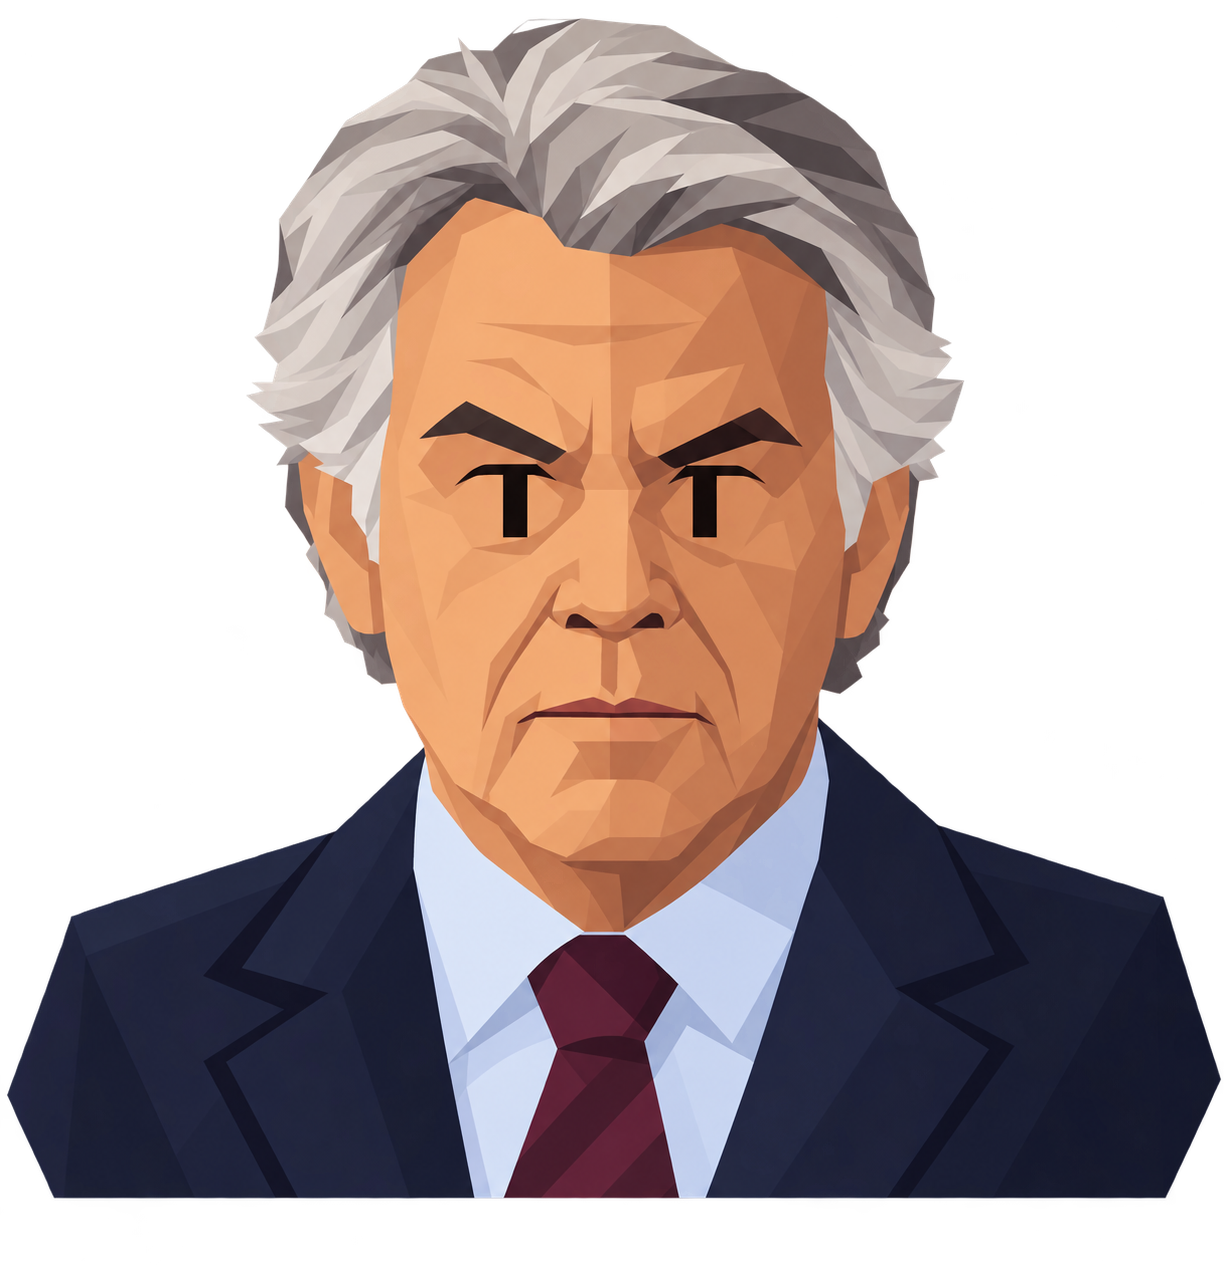
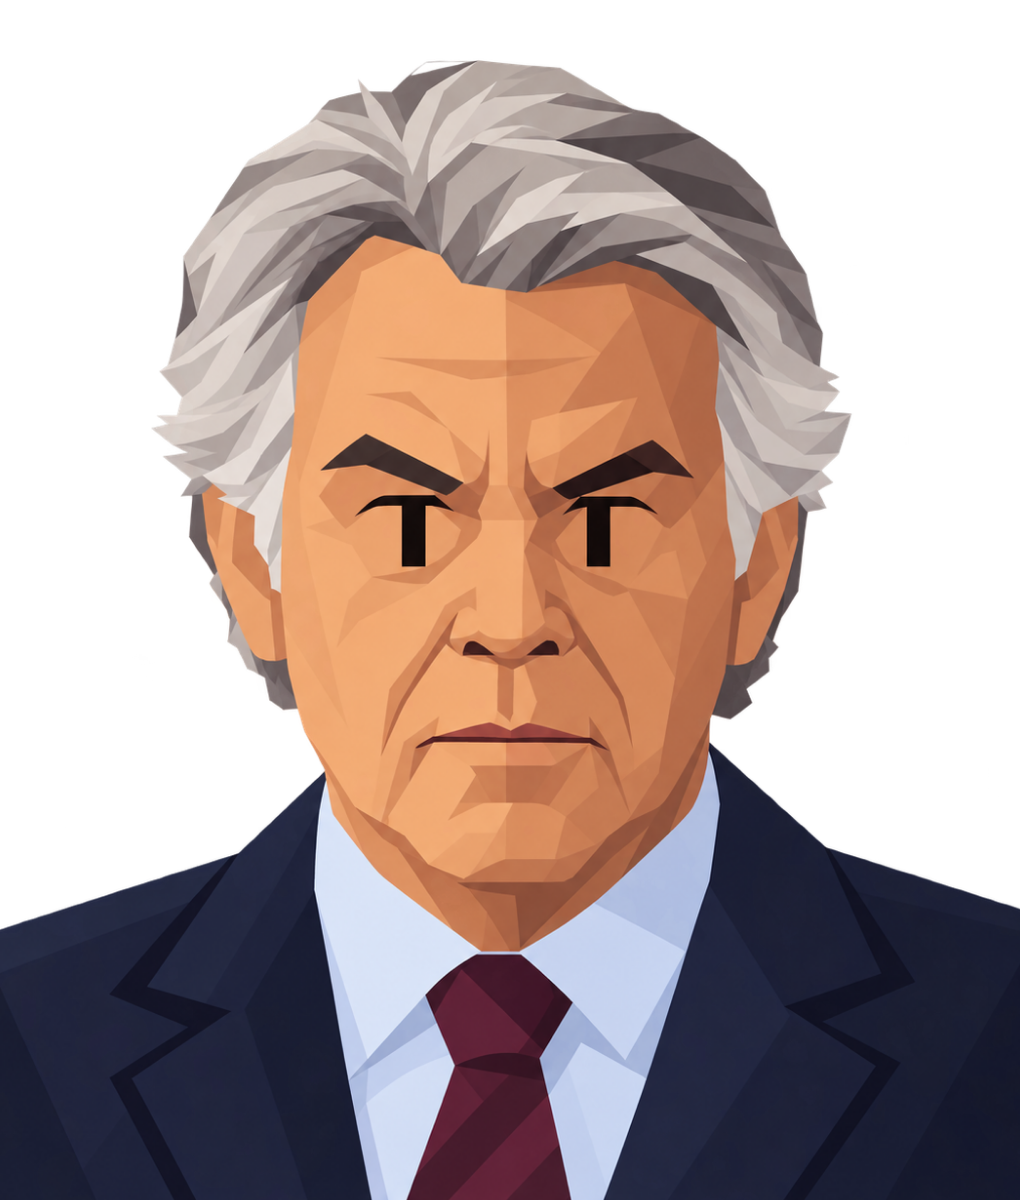
Arte nuevo de El Gurú y La Primera Dama, y re-encuadre de los cuatro sueltos
Los retratos de guru y primeradama pasan de SVG provisional a PNG: actualizo
las referencias de las cartas (apuntaban al .svg, que ya no existe, así que
salían sin cara).

Además, cuatro PNG estaban fuera del lienzo común 1020x1200 y se veían con
distinto encuadre que el resto: los dos nuevos más expresidentecompetente y
ultraderecha, que también habían cambiado. Pasados por
scripts/normalize-portraits.mjs. Ahora los 16 comparten plano.

El script admite ahora nombres sueltos (antes reescribía los 16 siempre) y
resuelve playwright del proyecto o de PLAYWRIGHT_PATH, en vez de asumir una
ruta de la caché de npx que solo existía en mi máquina.

diff --git a/src/data/cards.content.ts b/src/data/cards.content.ts
@@ -2592,7 +2592,7 @@ export const contentCards: Card[] = [
     pleases: 'left',
     phase: 1,
     character: 'La Primera Dama',
-    characterImage: 'primeradama.svg',
+    characterImage: 'primeradama.png',
     text: '"He montado un curso de liderazgo en una universidad pública. Y una cátedra. Y creo que también un máster, pero ese no me acuerdo." Le mira esperando entusiasmo.',
     left: { text: '"Sí, cariño"', effects: { medios: -1, caja: -1 }, moralidad: -1 },
     right: { text: 'Preguntar quién firma y quién paga eso', effects: { medios: 1 }, moralidad: 1 },
@@ -2602,7 +2602,7 @@ export const contentCards: Card[] = [
     pleases: 'left',
     phase: 2,
     character: 'La Primera Dama',
-    characterImage: 'primeradama.svg',
+    characterImage: 'primeradama.png',
     text: '"Ahora soy empresaria. Tengo reuniones en el Palacio, sí, pero son cosa mía, no tuya." Le enseña unas tarjetas de visita recién impresas, con el escudo casi igual que el oficial.',
     left: { text: '"Sí, cariño"', effects: { caja: 1, medios: -1 }, moralidad: -2, nextCardId: 'react_dama_juez' },
     right: { text: 'Pedirle que las reuniones sean fuera de casa', effects: { medios: 1, gobierno: -1 }, moralidad: 1 },
@@ -2612,7 +2612,7 @@ export const contentCards: Card[] = [
     pleases: 'left',
     phase: 2,
     character: 'La Primera Dama',
-    characterImage: 'primeradama.svg',
+    characterImage: 'primeradama.png',
     text: '"He escrito un libro. Sale en primavera. Los ministerios van a comprar unos cuantos ejemplares, ¿verdad que sí? Para las bibliotecas. Muchos." Ya tiene hecha la foto de la portada.',
     left: { text: '"Sí, cariño"', effects: { caja: 1, medios: -1 }, moralidad: -1 },
     right: { text: 'Que lo compre quien quiera, como todo el mundo', effects: { medios: 1 }, moralidad: 1 },
@@ -2622,7 +2622,7 @@ export const contentCards: Card[] = [
     pleases: 'left',
     phase: 3,
     character: 'La Primera Dama',
-    characterImage: 'primeradama.svg',
+    characterImage: 'primeradama.png',
     text: '"Voy a coger tu avión para un acto. Benéfico. Bueno, mío. Bueno, de una fundación que he creado esta mañana. Ya te lo explico en la cena." Ya está en la escalerilla.',
     left: { text: '"Sí, cariño"', effects: { calle: -1, medios: -1, caja: -1 }, moralidad: -1 },
     right: { text: 'Recordarle que el avión lo paga el contribuyente', effects: { medios: 1, calle: 1 }, moralidad: 1 },
@@ -2632,7 +2632,7 @@ export const contentCards: Card[] = [
     pleases: 'left',
     phase: 4,
     character: 'La Primera Dama',
-    characterImage: 'primeradama.svg',
+    characterImage: 'primeradama.png',
     text: 'Un juez la ha citado a declarar por lo de la cátedra, la empresa y el libro, todo junto. "Es una cacería. Y tú tienes que salir a defenderme mañana, en primera línea. ¿Verdad, cariño?"',
     left: { text: 'Salir a defenderla en primera línea', effects: { gobierno: -1, medios: -2, caja: -1 }, moralidad: -1 },
     right: { text: 'Dejar que responda ella, que es la empresaria', effects: { medios: 1, calle: -1 } },
@@ -2645,7 +2645,7 @@ export const contentCards: Card[] = [
     pleases: 'right',
     phase: 1,
     character: 'El Gurú',
-    characterImage: 'guru.svg',
+    characterImage: 'guru.png',
     text: '"La izquierda necesita un faro moral. Yo me ofrezco." Su despacho está en un paraíso fiscal, "por temas logísticos", pero insiste en que eso no cambia nada.',
     left: { text: 'Agradecer el ofrecimiento y no darle cargo', effects: { medios: 1 } },
     right: { text: 'Nombrarle "asesor de valores"', effects: { gobierno: 1, medios: -2, caja: -1 }, moralidad: -1 },
@@ -2655,7 +2655,7 @@ export const contentCards: Card[] = [
     pleases: 'right',
     phase: 2,
     character: 'El Gurú',
-    characterImage: 'guru.svg',
+    characterImage: 'guru.png',
     text: '"Voy a dar una conferencia sobre la desigualdad. Cobro 80.000 euros. El dinero no me interesa, pero rechazarlo sería una falta de respeto a los organizadores."',
     left: { text: 'Pedirle que la dé gratis', effects: { medios: 1, calle: 1 }, moralidad: 1 },
     right: { text: 'Que la cobre, faltaría más', effects: { caja: 1, medios: -1 }, moralidad: -1 },
@@ -2665,7 +2665,7 @@ export const contentCards: Card[] = [
     pleases: 'right',
     phase: 2,
     character: 'El Gurú',
-    characterImage: 'guru.svg',
+    characterImage: 'guru.png',
     text: '"Me han regalado un reloj de 40.000 euros. Es un gesto simbólico de hermandad entre pueblos. Lo voy a llevar puesto en el acto contra el lujo del jueves."',
     left: { text: 'Pedirle que lo devuelva', effects: { calle: 1, medios: 1 }, moralidad: 1 },
     right: { text: 'Dejar que lo luzca', effects: { medios: -1, calle: -1, caja: 1 }, moralidad: -1 },
@@ -2675,7 +2675,7 @@ export const contentCards: Card[] = [
     pleases: 'right',
     phase: 3,
     character: 'El Gurú',
-    characterImage: 'guru.svg',
+    characterImage: 'guru.png',
     text: '"Deberíamos acercarnos a cierto régimen lejano. Tienen sus cosas con los derechos humanos, sí, pero yo les asesoro, cobro puntualmente y son buena gente. Es diálogo entre pueblos."',
     left: { text: 'Mantener las distancias', effects: { medios: 1, gobierno: -1 }, moralidad: 1 },
     right: { text: 'Abrir "un canal de diálogo"', effects: { caja: 2, medios: -2, calle: -1 }, moralidad: -2 },
@@ -2685,7 +2685,7 @@ export const contentCards: Card[] = [
     pleases: 'right',
     phase: 3,
     character: 'El Gurú',
-    characterImage: 'guru.svg',
+    characterImage: 'guru.png',
     text: '"He montado una fundación para acabar con la pobreza mundial. El 90% del presupuesto es mi sueldo y mis viajes, pero el 10% llega a alguien. Eso ya es más que nada."',
     left: { text: 'Auditar la fundación', effects: { medios: 1, gobierno: -1 }, moralidad: 2 },
     right: { text: 'Meterle una subvención pública', effects: { caja: -1, medios: -2 }, moralidad: -2, nextCardId: 'react_guru_periodista' },
@@ -2695,7 +2695,7 @@ export const contentCards: Card[] = [
     pleases: 'right',
     phase: 4,
     character: 'El Gurú',
-    characterImage: 'guru.svg',
+    characterImage: 'guru.png',
     text: '"El mundo se va al garete y solo yo puedo pararlo. Necesito un jet, un equipo y presupuesto sin justificar. Es por la humanidad. Y por mí, pero sobre todo por la humanidad."',
     left: { text: '"El mundo se apañará sin tu jet"', effects: { caja: 1, medios: 1 }, moralidad: 1 },
     right: { text: 'Darle el jet y el presupuesto', effects: { caja: -2, medios: -1 }, moralidad: -2 },
@@ -2719,7 +2719,7 @@ export const contentCards: Card[] = [
     id: 'feud_dama_hermano',
     phase: 2,
     character: 'La Primera Dama',
-    characterImage: 'primeradama.svg',
+    characterImage: 'primeradama.png',
     text: '"Tu hermano le ha dicho a un periodista que yo soy la que de verdad manda aquí." Su hermano jura que era una broma. Nadie en la familia se habla desde el domingo.',
     left: { text: 'Ponerse del lado de su mujer', effects: { gobierno: -1, medios: 1 } },
     right: { text: 'Ponerse del lado de su hermano', effects: { gobierno: 1, medios: -1 } },
@@ -2885,7 +2885,7 @@ export const contentCards: Card[] = [
     id: 'meme_mascota',
     phase: 1,
     character: 'La Primera Dama',
-    characterImage: 'primeradama.svg',
+    characterImage: 'primeradama.png',
     text: '"He adoptado un perro para la foto de Navidad. Se llama como tu antecesor. Sí, a propósito." Ya tiene cuenta propia en redes y más seguidores que usted.',
     left: { text: 'Cambiarle el nombre al perro', effects: { medios: 1 } },
     right: { text: 'Dejarlo, es buenísimo', effects: { calle: 1, gobierno: -1 } },
@@ -3026,7 +3026,7 @@ export const contentCards: Card[] = [
     id: 'anger_dama',
     phase: 2,
     character: 'La Primera Dama',
-    characterImage: 'primeradama.svg',
+    characterImage: 'primeradama.png',
     text: 'Ha concedido una entrevista de dos páginas sin avisarle. Titular: "Yo también he renunciado a cosas". El "también" lleva mucho trabajo detrás.',
     left: { text: 'Salir a apoyarla en todo', effects: { medios: -2, gobierno: 1, caja: -1 }, moralidad: -1 },
     right: { text: 'No comentar la entrevista', effects: { medios: -1, calle: -1 } },
@@ -3037,7 +3037,7 @@ export const contentCards: Card[] = [
     id: 'anger_guru',
     phase: 3,
     character: 'El Gurú',
-    characterImage: 'guru.svg',
+    characterImage: 'guru.png',
     text: '"Este Gobierno ha perdido el alma." Lo dice desde un festival de ideas, en una isla, con entrada a 600 euros. Sus seguidores le creen. Son muchos.',
     left: { text: 'Reconciliarse y darle un cargo', effects: { calle: 1, medios: -2, caja: -1 }, moralidad: -2 },
     right: { text: 'Dejarle predicar en su isla', effects: { calle: -1, medios: 1 }, moralidad: 1 },

diff --git a/README.md b/README.md
@@ -98,9 +98,10 @@ No hace falta importar nada ni tocar código — Vite sirve todo lo que hay en
 hasta ahora (solo el nombre en texto), así que puedes ir añadiendo retratos
 poco a poco.
 
-El reparto usa retratos `.png` propios salvo cinco personajes con SVG
-provisional a la espera de arte nuevo (`cunado.svg` — ahora "El Hermano" —,
-`encuestador.svg`, `juez.svg`, `periodista.svg`, `primeradama.svg`).
+El reparto usa retratos `.png` propios salvo cuatro personajes que siguen con
+SVG provisional a la espera de arte nuevo: `cunado.svg` (ahora "El Hermano"),
+`encuestador.svg`, `juez.svg` y `periodista.svg`. `nocheelectoral.svg` es de
+las cartas de elecciones, no de un personaje.
 
 Los `.png` están **re-encuadrados a un lienzo común** (1020×1200, poco aire
 sobre la cabeza, torso sangrando por abajo) con `scripts/normalize-portraits.mjs`,
